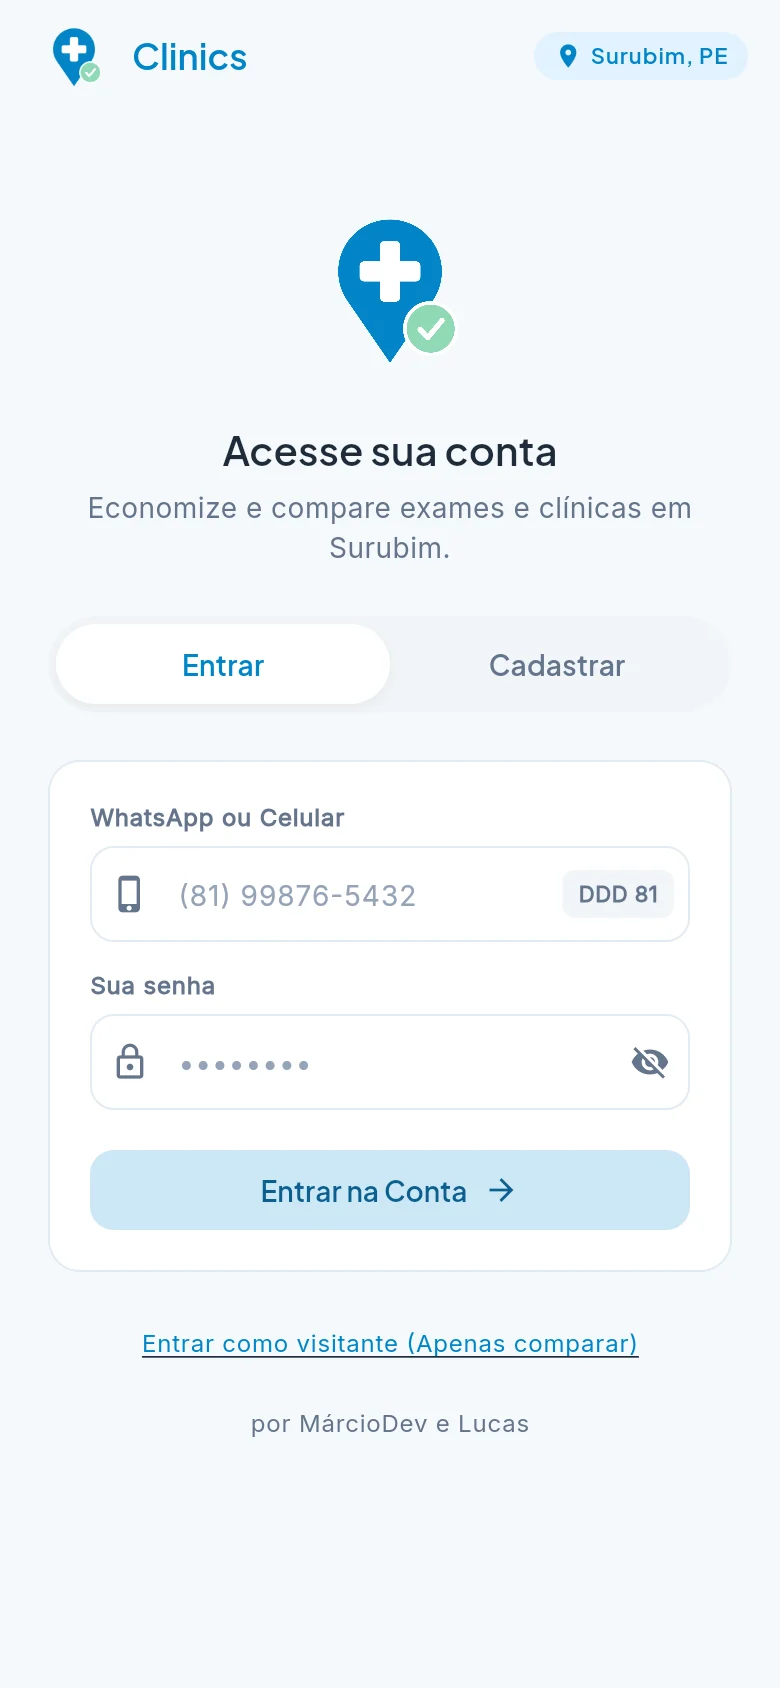
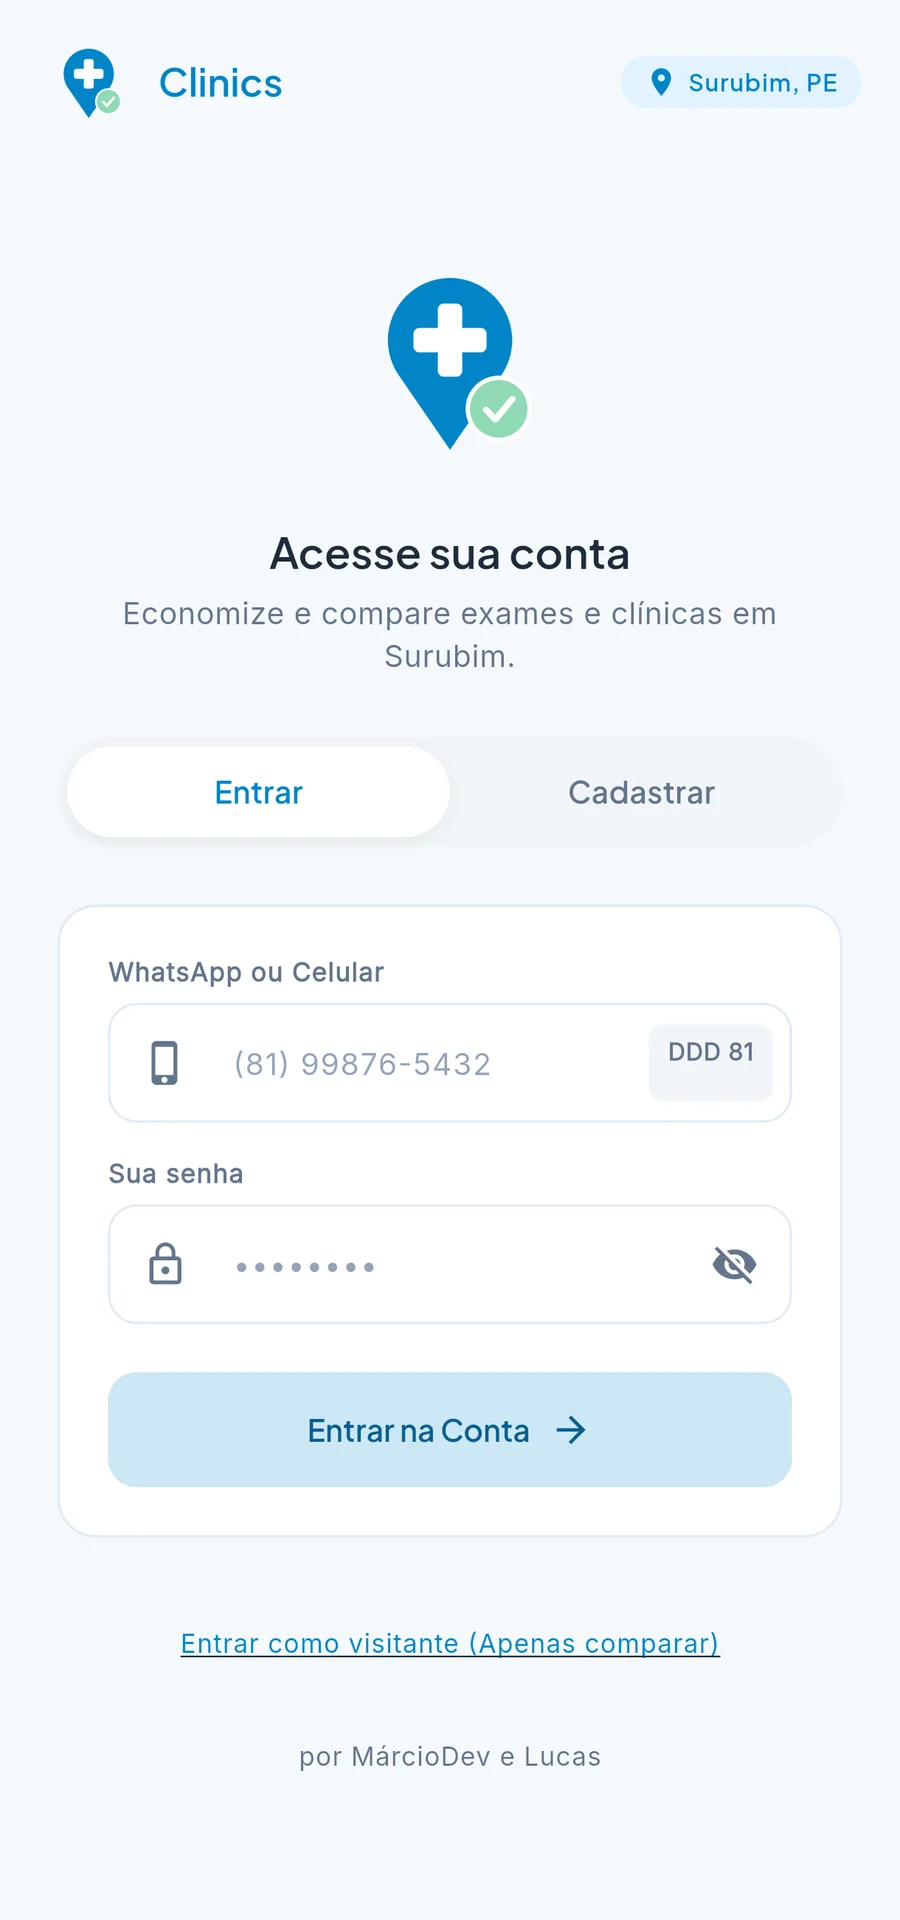
feat(assets): prints dos apps Clinics e UrbanSense capturados no celular
Barra de status cortada; galeria do Clinics ganha detalhes do exame e a do UrbanSense, a conexão com os óculos.

diff --git a/src/content/projetos/clinics.md b/src/content/projetos/clinics.md
@@ -13,11 +13,13 @@ gallery:
   - src: "../../assets/projetos/clinics/landing.webp"
     alt: "Página pública do Clinics com download do app para Android, iPhone e navegador"
   - src: "../../assets/projetos/clinics/app.webp"
-    alt: "Tela de login do app Clinics, com entrada por WhatsApp ou como visitante"
+    alt: "Tela de acesso do app Clinics no Android, com entrada por WhatsApp ou como visitante"
   - src: "../../assets/projetos/clinics/inicio.webp"
     alt: "Tela inicial do app com busca de exames e os mais buscados em Surubim"
   - src: "../../assets/projetos/clinics/comparacao.webp"
     alt: "Comparação de preços de um ultrassom em várias clínicas, com botão de WhatsApp"
+  - src: "../../assets/projetos/clinics/detalhes.webp"
+    alt: "Detalhes do exame com valor, instruções de preparo e agendamento pelo WhatsApp"
 ---
 
 ## Contexto

diff --git a/src/content/projetos/urbansense.md b/src/content/projetos/urbansense.md
@@ -11,6 +11,8 @@ team: ["Márcio Ferreira Lima", "Carlos Henrique", "Gabriel Lopes"]
 gallery:
   - src: "../../assets/projetos/urbansense/painel.webp"
     alt: "Painel do UrbanSense com detecção de movimento, captura automática periódica e botão para registrar ocorrência"
+  - src: "../../assets/projetos/urbansense/oculos.webp"
+    alt: "Tela de conexão com os óculos Meta Ray-Ban: iniciar sessão, visualização ao vivo e captura"
   - src: "../../assets/projetos/urbansense/configuracoes.webp"
     alt: "Configurações do UrbanSense: intervalo de captura, voz nos óculos Meta Ray-Ban e simulador de óculos"
 ---
